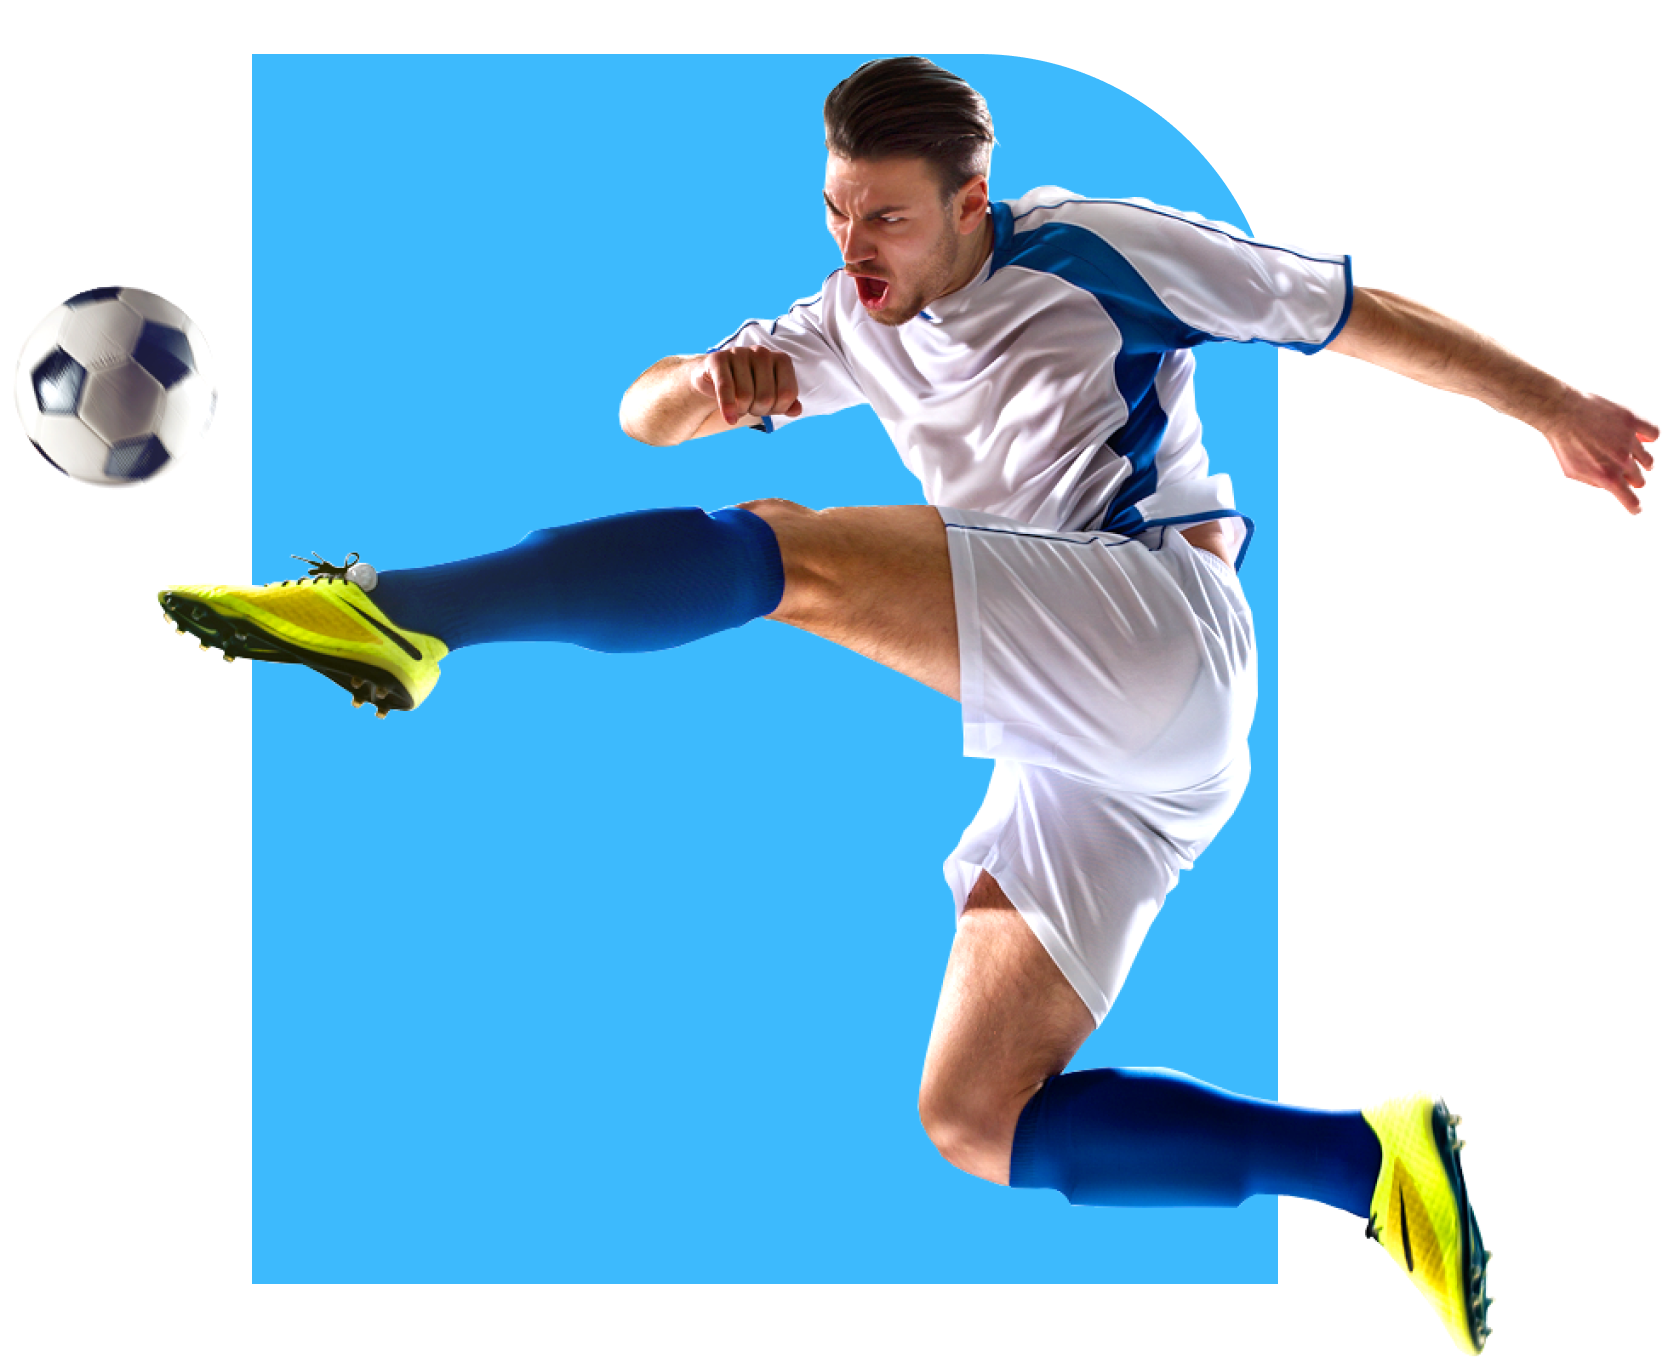
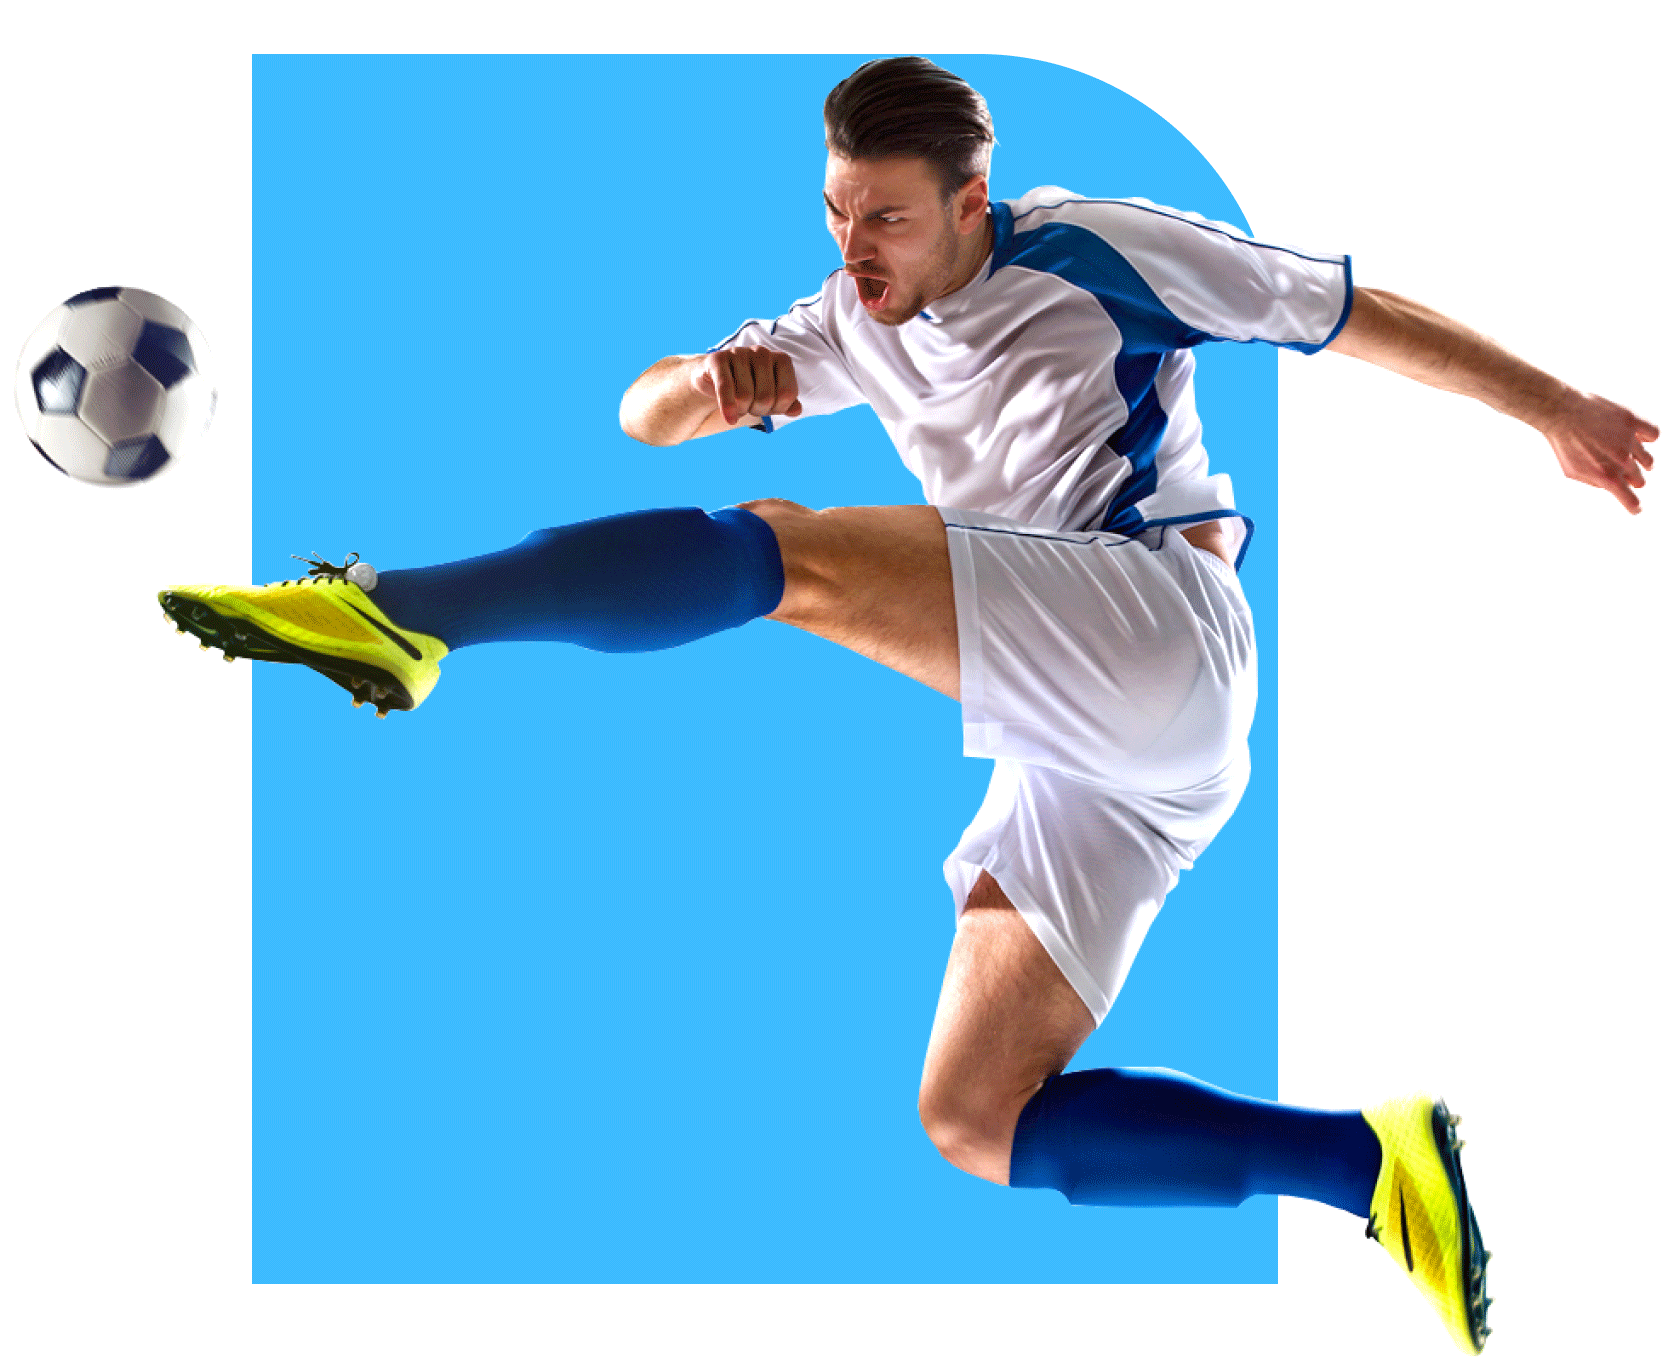
Images are optimized

diff --git a/index.html b/index.html
@@ -36,7 +36,7 @@
 
             <div class="player">
                 <div class="player-info">
-                    <img src="images/players/player-1.png" alt="picture of a player">
+                    <img src="images/players/player-1.jpg" alt="picture of a player">
                     <h2>Neymar Jr</h2>
                     <p>Neymar da Silva Santos Júnior, known as Neymar, is a Brazilian professional footballer who plays
                         as a forward.</p>
@@ -45,7 +45,7 @@
 
             <div class="player">
                 <div class="player-info">
-                    <img src="images/players/player-2.png" alt="picture of a player">
+                    <img src="images/players/player-2.jpg" alt="picture of a player">
                     <h2>Lionel Messi</h2>
                     <p>Lionel Andrés Messi is an Argentine professional footballer who plays as a forward or an
                         attacking midfielder.</p>
@@ -54,7 +54,7 @@
 
             <div class="player">
                 <div class="player-info">
-                    <img src="images/players/player-3.png" alt="picture of a player">
+                    <img src="images/players/player-3.jpg" alt="picture of a player">
                     <h2>Cristiano Ronaldo</h2>
                     <p>Cristiano Ronaldo dos Santos Aveiro GOIH ComM is a Portuguese professional footballer who plays
                         as a forward. </p>
@@ -63,7 +63,7 @@
 
             <div class="player">
                 <div class="player-info">
-                    <img src="images/players/player-4.png" alt="picture of a player">
+                    <img src="images/players/player-4.jpg" alt="picture of a player">
                     <h2>Paulo Dybala</h2>
                     <p>Paulo Exequiel Dybala is an Argentine professional footballer who plays as a forward for
                         Argentina national team.</p>
@@ -72,7 +72,7 @@
 
             <div class="player">
                 <div class="player-info">
-                    <img src="images/players/player-5.png" alt="picture of a player">
+                    <img src="images/players/player-5.jpg" alt="picture of a player">
                     <h2>Mesut Ozil</h2>
                     <p>Mesut Özil is a German professional footballer who plays as an attacking midfielder for Süper Lig
                         club Fenerbahçe.</p>
@@ -81,7 +81,7 @@
 
             <div class="player">
                 <div class="player-info">
-                    <img src="images/players/player-6.png" alt="picture of a player">
+                    <img src="images/players/player-6.jpg" alt="picture of a player">
                     <h2>Mauro Icardi</h2>
                     <p>Mauro Emanuel Icardi is an Argentine professional footballer who plays as a striker for the
                         Argentina national team.</p>
@@ -90,7 +90,7 @@
 
             <div class="player">
                 <div class="player-info">
-                    <img src="images/players/player-7.png" alt="picture of a player">
+                    <img src="images/players/player-7.jpg" alt="picture of a player">
                     <h2>Di Maria</h2>
                     <p>Ángel Fabián Di María is an Argentine professional footballer who plays for the Argentina
                         national team.</p>
@@ -99,7 +99,7 @@
 
             <div class="player">
                 <div class="player-info">
-                    <img src="images/players/player-8.png" alt="picture of a player">
+                    <img src="images/players/player-8.jpg" alt="picture of a player">
                     <h2>Kylian Mbappé</h2>
                     <p>Kylian Mbappé Lottin is a French professional footballer who plays as a forward the France
                         national team.</p>
@@ -108,7 +108,7 @@
 
             <div class="player">
                 <div class="player-info">
-                    <img src="images/players/player-9.png" alt="picture of a player">
+                    <img src="images/players/player-9.jpg" alt="picture of a player">
                     <h2>Mohamed Salah</h2>
                     <p>Mohamed Salah Hamed Mahrous Ghaly is an Egyptian professional footballer who plays as a forward.
                     </p>
@@ -117,7 +117,7 @@
 
             <div class="player">
                 <div class="player-info">
-                    <img src="images/players/player-10.png" alt="picture of a player">
+                    <img src="images/players/player-10.jpg" alt="picture of a player">
                     <h2>Harry Kane</h2>
                     <p>Harry Edward Kane MBE is an English professional footballer who plays as a striker and captains
                         the England national team. </p>
@@ -126,7 +126,7 @@
 
             <div class="player">
                 <div class="player-info">
-                    <img src="images/players/player-11.png" alt="picture of a player">
+                    <img src="images/players/player-11.jpg" alt="picture of a player">
                     <h2>Kevin De Bruyne</h2>
                     <p>Kevin De Bruyne is a Belgian professional footballer who plays as a midfielder for the Belgium
                         national team. </p>
@@ -135,7 +135,7 @@
 
             <div class="player">
                 <div class="player-info">
-                    <img src="images/players/player-12.png" alt="picture of a player">
+                    <img src="images/players/player-12.jpg" alt="picture of a player">
                     <h2>Philippe Coutinho</h2>
                     <p>Philippe Coutinho Correia is a Brazilian professional footballer who plays as an attacking
                         midfielder or winger for the Brazil national team.</p>
